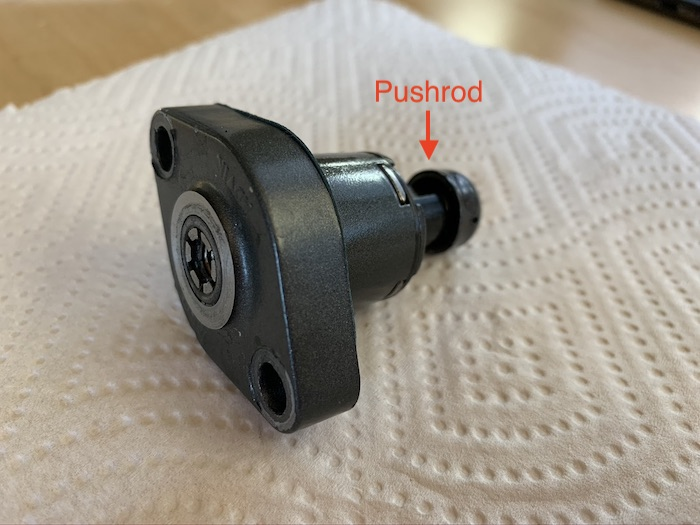
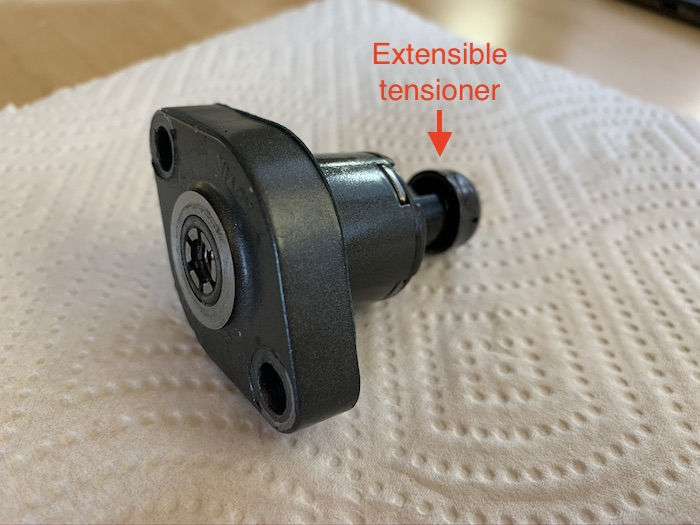
Cam chain tensioner post fixes
- Changed some wording in the images
- Swapped out YT link

Changed region(s): [[0.51, 0.1524, 0.72, 0.3048], [0.51, 0.061, 0.75, 0.1219]]

diff --git a/collections/Motorcycle/_posts/2020-07-19-cam-chain-tensioner.md b/collections/Motorcycle/_posts/2020-07-19-cam-chain-tensioner.md
@@ -23,7 +23,7 @@ Some weeks back as I was getting off the highway I started hearing what I at fir
 When you spend a lot of time doing something, whether it'd be motorcycle riding or really any other activity you get used to how things behave, sound, and feel. If something is off, you can realize it pretty quickly. After getting off the bike and putting my ear to the engine I could immediately tell that something was just not right - and to be quite frank it scared the hell out of me. I recorded what I was hearing so I could send it to a buddy of mine:
 
 <!-- markdownlint-disable MD033 -->
-<iframe width="560" height="315" src="https://www.youtube-nocookie.com/embed/KpBICyS5ljE" frameborder="0" allow="accelerometer; autoplay; encrypted-media; gyroscope; picture-in-picture" allowfullscreen></iframe>
+<iframe width="560" height="315" src="https://www.youtube-nocookie.com/embed/y97m7XAnRBg" frameborder="0" allow="accelerometer; autoplay; encrypted-media; gyroscope; picture-in-picture" allowfullscreen></iframe>
 <!-- markdownlint-enable MD033 -->
 
 Looking at that video it sounds nothing like an exhaust leak - it's quite obvious that there is a lot of ticking going on. In person however, it sounded a lot different. After verifying that the exhaust system did not seem to have any loose parts or stray holes there really were only two things left that I figure might be the culprit:
